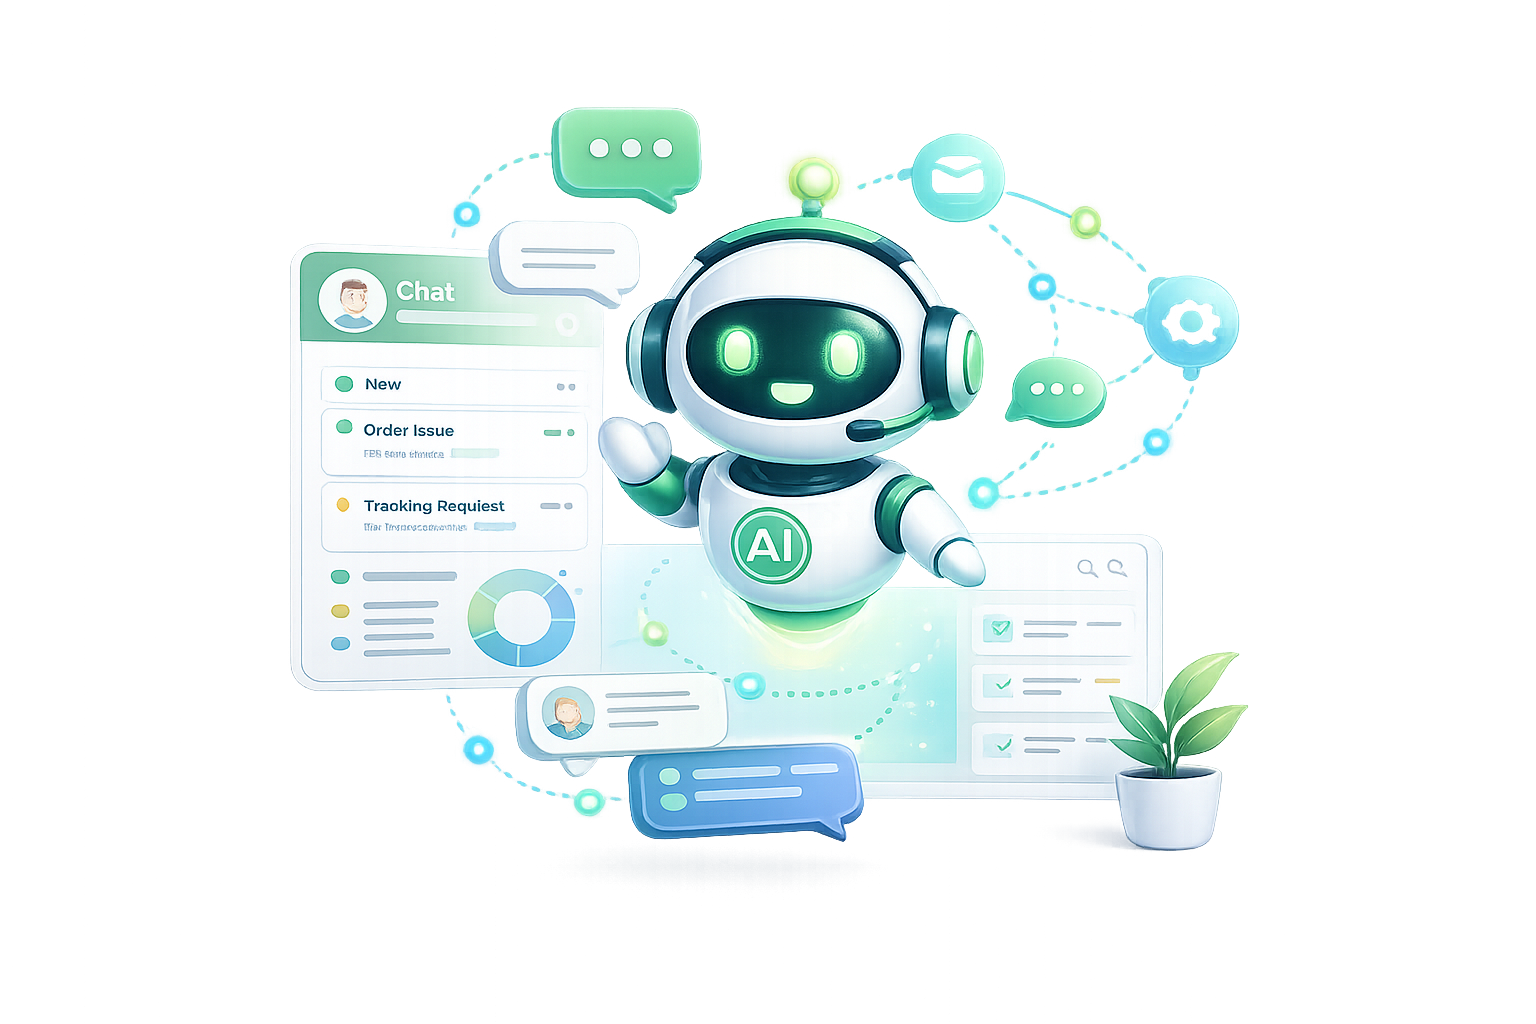
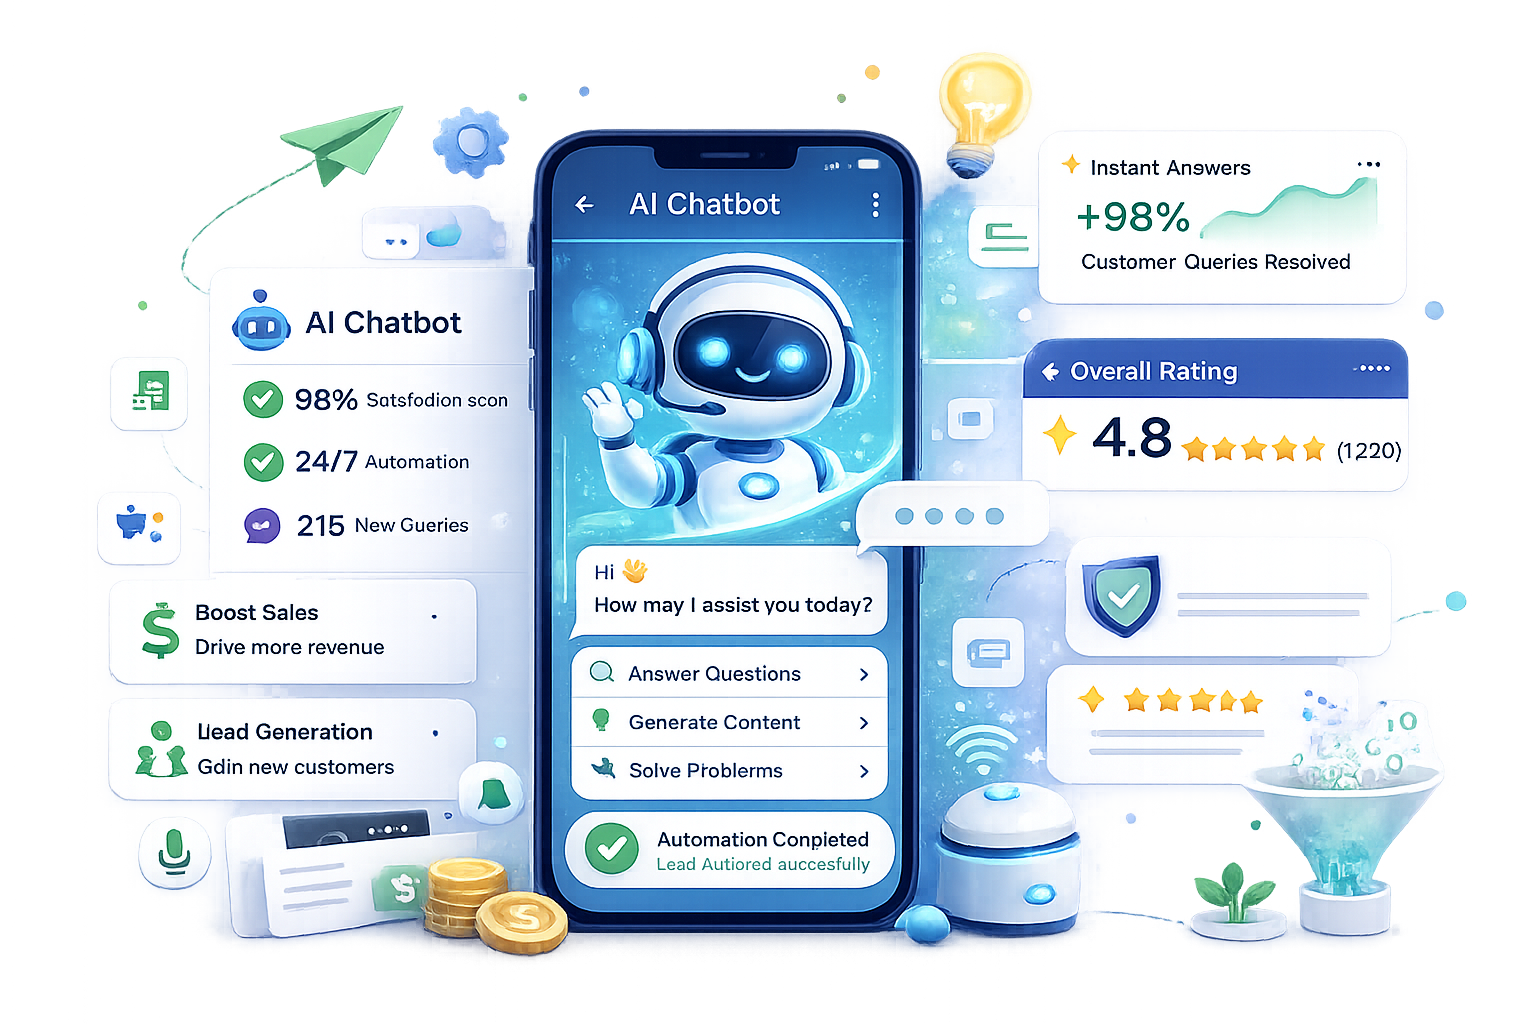
style: arrange AutomateBusiness bubbles in a circular layout with entrance animations

diff --git a/src/components/landing/AutomateBusiness.tsx b/src/components/landing/AutomateBusiness.tsx
@@ -1,3 +1,4 @@
+import { useEffect, useRef, useState } from 'react';
 import { Link } from 'react-router-dom';
 import {
   Send, Database, Bot, Handshake, Megaphone, 
@@ -5,6 +6,27 @@ import {
 } from 'lucide-react';
 
 const AutomateBusiness = () => {
+  const [isVisible, setIsVisible] = useState(false);
+  const sectionRef = useRef<HTMLDivElement>(null);
+
+  useEffect(() => {
+    const observer = new IntersectionObserver(
+      ([entry]) => {
+        if (entry.isIntersecting) {
+          setIsVisible(true);
+          observer.unobserve(entry.target);
+        }
+      },
+      { threshold: 0.1 }
+    );
+
+    if (sectionRef.current) {
+      observer.observe(sectionRef.current);
+    }
+
+    return () => observer.disconnect();
+  }, []);
+
   const services = [
     {
       number: '01',
@@ -13,8 +35,6 @@ const AutomateBusiness = () => {
       icon: Send,
       bgColor: 'bg-orange-400',
       hoverShadow: 'hover:shadow-orange-400/40',
-      size: 'w-44 h-44 md:w-48 md:h-48',
-      position: 'translate-y-0',
     },
     {
       number: '02',
@@ -23,8 +43,6 @@ const AutomateBusiness = () => {
       icon: Database,
       bgColor: 'bg-indigo-900',
       hoverShadow: 'hover:shadow-indigo-900/40',
-      size: 'w-44 h-44 md:w-48 md:h-48',
-      position: '-translate-y-6',
     },
     {
       number: '03',
@@ -33,8 +51,6 @@ const AutomateBusiness = () => {
       icon: Bot,
       bgColor: 'bg-teal-500',
       hoverShadow: 'hover:shadow-teal-500/40',
-      size: 'w-40 h-40 md:w-44 md:h-44',
-      position: 'translate-y-2',
     },
     {
       number: '04',
@@ -43,8 +59,6 @@ const AutomateBusiness = () => {
       icon: Handshake,
       bgColor: 'bg-indigo-900',
       hoverShadow: 'hover:shadow-indigo-900/40',
-      size: 'w-44 h-44 md:w-48 md:h-48',
-      position: '-translate-y-4',
     },
     {
       number: '05',
@@ -53,8 +67,6 @@ const AutomateBusiness = () => {
       icon: Send,
       bgColor: 'bg-indigo-900',
       hoverShadow: 'hover:shadow-indigo-900/40',
-      size: 'w-44 h-44 md:w-48 md:h-48',
-      position: 'translate-y-2',
     },
     {
       number: '06',
@@ -63,8 +75,6 @@ const AutomateBusiness = () => {
       icon: Code2,
       bgColor: 'bg-pink-500',
       hoverShadow: 'hover:shadow-pink-500/40',
-      size: 'w-44 h-44 md:w-48 md:h-48',
-      position: '-translate-y-4',
     },
     {
       number: '07',
@@ -73,8 +83,6 @@ const AutomateBusiness = () => {
       icon: TrendingUp,
       bgColor: 'bg-orange-400',
       hoverShadow: 'hover:shadow-orange-400/40',
-      size: 'w-40 h-40 md:w-44 md:h-44',
-      position: 'translate-y-4',
     },
     {
       number: '08',
@@ -83,14 +91,54 @@ const AutomateBusiness = () => {
       icon: Megaphone,
       bgColor: 'bg-teal-500',
       hoverShadow: 'hover:shadow-teal-500/40',
-      size: 'w-44 h-44 md:w-48 md:h-48',
-      position: '-translate-y-2',
     },
   ];
 
   return (
-    <section className="relative py-20 lg:py-28 bg-slate-900 overflow-hidden">
+    <section ref={sectionRef} className="relative py-20 lg:py-28 bg-slate-900 overflow-hidden">
       
+      {/* Inject custom styling and responsive variables directly */}
+      <style dangerouslySetInnerHTML={{ __html: `
+        .orbit-container {
+          --radius: 110px;
+          --b-size: 80px;
+        }
+        @media (min-width: 768px) {
+          .orbit-container {
+            --radius: 220px;
+            --b-size: 144px;
+          }
+        }
+        
+        @keyframes orbit-entry {
+          0% {
+            opacity: 0;
+            transform: translate(-50%, -50%) scale(0.2);
+          }
+          100% {
+            opacity: 1;
+            transform: translate(calc(-50% + var(--tx)), calc(-50% + var(--ty))) scale(1);
+          }
+        }
+        
+        .animate-orbit-entry {
+          animation: orbit-entry 1.2s cubic-bezier(0.34, 1.56, 0.64, 1) forwards;
+        }
+        
+        @keyframes float-animation {
+          0%, 100% {
+            transform: translateY(0px);
+          }
+          50% {
+            transform: translateY(-8px);
+          }
+        }
+        
+        .animate-float {
+          animation: float-animation 6s ease-in-out infinite;
+        }
+      `}} />
+
       {/* Background decorative pattern */}
       <div className="absolute inset-0 opacity-30">
         <div 
@@ -108,7 +156,7 @@ const AutomateBusiness = () => {
 
       <div className="max-w-7xl mx-auto px-4 md:px-6 relative z-10">
         
-        <div className="grid grid-cols-1 lg:grid-cols-12 gap-12 items-start mb-16">
+        <div className="grid grid-cols-1 lg:grid-cols-12 gap-16 items-center mb-16">
           
           {/* ═══════ LEFT: Content (5 cols) ═══════ */}
           <div className="lg:col-span-5 space-y-6 relative">
@@ -189,31 +237,59 @@ const AutomateBusiness = () => {
             </div>
           </div>
 
-          {/* ═══════ RIGHT: Service Bubbles Grid (7 cols) ═══════ */}
-          <div className="lg:col-span-7 relative">
+          {/* ═══════ RIGHT: Circular Orbit Layout (7 cols) ═══════ */}
+          <div className="lg:col-span-7 flex items-center justify-center relative min-h-[340px] md:min-h-[640px]">
             
-            {/* Mobile: Simple grid */}
-            <div className="lg:hidden grid grid-cols-2 gap-6">
-              {services.map((service, i) => (
-                <BubbleCard key={i} service={service} mobile />
-              ))}
-            </div>
-
-            {/* Desktop: Custom positioned bubbles */}
-            <div className="hidden lg:block">
-              {/* Row 1 */}
-              <div className="flex justify-between items-end gap-2 mb-6">
-                {services.slice(0, 4).map((service, i) => (
-                  <BubbleCard key={i} service={service} />
-                ))}
-              </div>
+            {/* The circular orbit container */}
+            <div className="relative w-[300px] h-[300px] md:w-[580px] md:h-[580px] flex items-center justify-center orbit-container">
               
-              {/* Row 2 */}
-              <div className="flex justify-between items-start gap-2">
-                {services.slice(4, 8).map((service, i) => (
-                  <BubbleCard key={i + 4} service={service} />
-                ))}
+              {/* Central Hub */}
+              <div 
+                className="absolute left-1/2 top-1/2 -translate-x-1/2 -translate-y-1/2 z-20 w-24 h-24 md:w-36 md:h-36 rounded-full bg-slate-800 border border-slate-700/50 shadow-2xl flex flex-col items-center justify-center p-2 text-center"
+                style={{
+                  animation: isVisible ? 'orbit-entry 1.2s cubic-bezier(0.34, 1.56, 0.64, 1) forwards' : 'none',
+                  '--tx': '0px',
+                  '--ty': '0px',
+                } as React.CSSProperties}
+              >
+                <div className="absolute inset-0 rounded-full bg-blue-500/10 animate-ping opacity-60" style={{ animationDuration: '3s' }} />
+                <span className="text-white text-xs md:text-lg font-black font-heading tracking-wider uppercase bg-gradient-to-r from-blue-400 to-indigo-300 bg-clip-text text-transparent">WabMeta</span>
+                <span className="text-[8px] md:text-[11px] text-blue-400 font-extrabold uppercase tracking-widest mt-0.5 md:mt-1">Hub</span>
               </div>
+
+              {/* Orbiting Service Bubbles */}
+              {services.map((service, i) => {
+                const angle = (i * 45 * Math.PI) / 180;
+                const cosVal = Math.cos(angle);
+                const sinVal = Math.sin(angle);
+                return (
+                  <div
+                    key={i}
+                    style={{
+                      position: 'absolute',
+                      left: '50%',
+                      top: '50%',
+                      width: 'var(--b-size)',
+                      height: 'var(--b-size)',
+                      '--tx': `calc(${cosVal.toFixed(4)} * var(--radius))`,
+                      '--ty': `calc(${sinVal.toFixed(4)} * var(--radius))`,
+                      animationDelay: `${i * 120}ms`,
+                    } as React.CSSProperties}
+                    className={`absolute pointer-events-auto ${isVisible ? 'animate-orbit-entry' : 'opacity-0'}`}
+                  >
+                    {/* Floating Inner Wrapper */}
+                    <div 
+                      className="w-full h-full animate-float"
+                      style={{
+                        animationDelay: `${i * 0.4}s`,
+                      }}
+                    >
+                      <BubbleCard service={service} />
+                    </div>
+                  </div>
+                );
+              })}
+
             </div>
           </div>
         </div>
@@ -258,34 +334,28 @@ const AutomateBusiness = () => {
 // ═══════════════════════════════════════════════════
 // Bubble Card Component
 // ═══════════════════════════════════════════════════
-const BubbleCard = ({ service, mobile = false }: { service: any; mobile?: boolean }) => {
+const BubbleCard = ({ service }: { service: any }) => {
   return (
-    <div 
-      className={`relative ${mobile ? 'w-full aspect-square' : `${service.size} ${service.position}`} 
-        ${service.bgColor} ${service.hoverShadow}
-        rounded-full flex items-center justify-center
-        transition-all duration-500 cursor-pointer
-        hover:scale-105 hover:shadow-2xl
-        group flex-shrink-0`}
-    >
+    <div className={`relative w-full h-full rounded-full flex flex-col items-center justify-center text-center p-2 cursor-pointer transition-all duration-300 hover:scale-110 shadow-lg hover:shadow-2xl ${service.bgColor} ${service.hoverShadow} group overflow-hidden`}>
+      
       {/* Number badge */}
-      <div className="absolute -top-1 -right-1 w-10 h-10 bg-blue-500 rounded-full flex items-center justify-center border-4 border-slate-900 shadow-lg">
-        <span className="text-white text-xs font-bold">{service.number}</span>
+      <div className="absolute -top-0.5 -right-0.5 w-6 h-6 md:w-8 md:h-8 bg-blue-500 rounded-full flex items-center justify-center border border-slate-900 md:border-4 shadow-md">
+        <span className="text-white text-[8px] md:text-[11px] font-extrabold">{service.number}</span>
       </div>
 
       {/* Content */}
-      <div className="flex flex-col items-center justify-center text-center px-4">
+      <div className="flex flex-col items-center justify-center text-center px-1 md:px-2">
         {/* Icon */}
-        <div className="mb-2 group-hover:scale-110 transition-transform">
-          <service.icon size={mobile ? 24 : 22} className="text-white" />
+        <div className="mb-0.5 md:mb-1.5 group-hover:scale-110 transition-transform text-white">
+          <service.icon className="w-4 h-4 md:w-6 md:h-6" />
         </div>
         
         {/* Title */}
-        <div className="text-white font-bold text-base md:text-lg leading-tight">
+        <div className="text-white font-extrabold text-[9px] md:text-sm leading-tight max-w-[95%]">
           {service.title}
         </div>
         {service.titleLine2 && (
-          <div className="text-white font-bold text-base md:text-lg leading-tight">
+          <div className="text-white font-semibold text-[8px] md:text-xs leading-none mt-0.5 opacity-90">
             {service.titleLine2}
           </div>
         )}